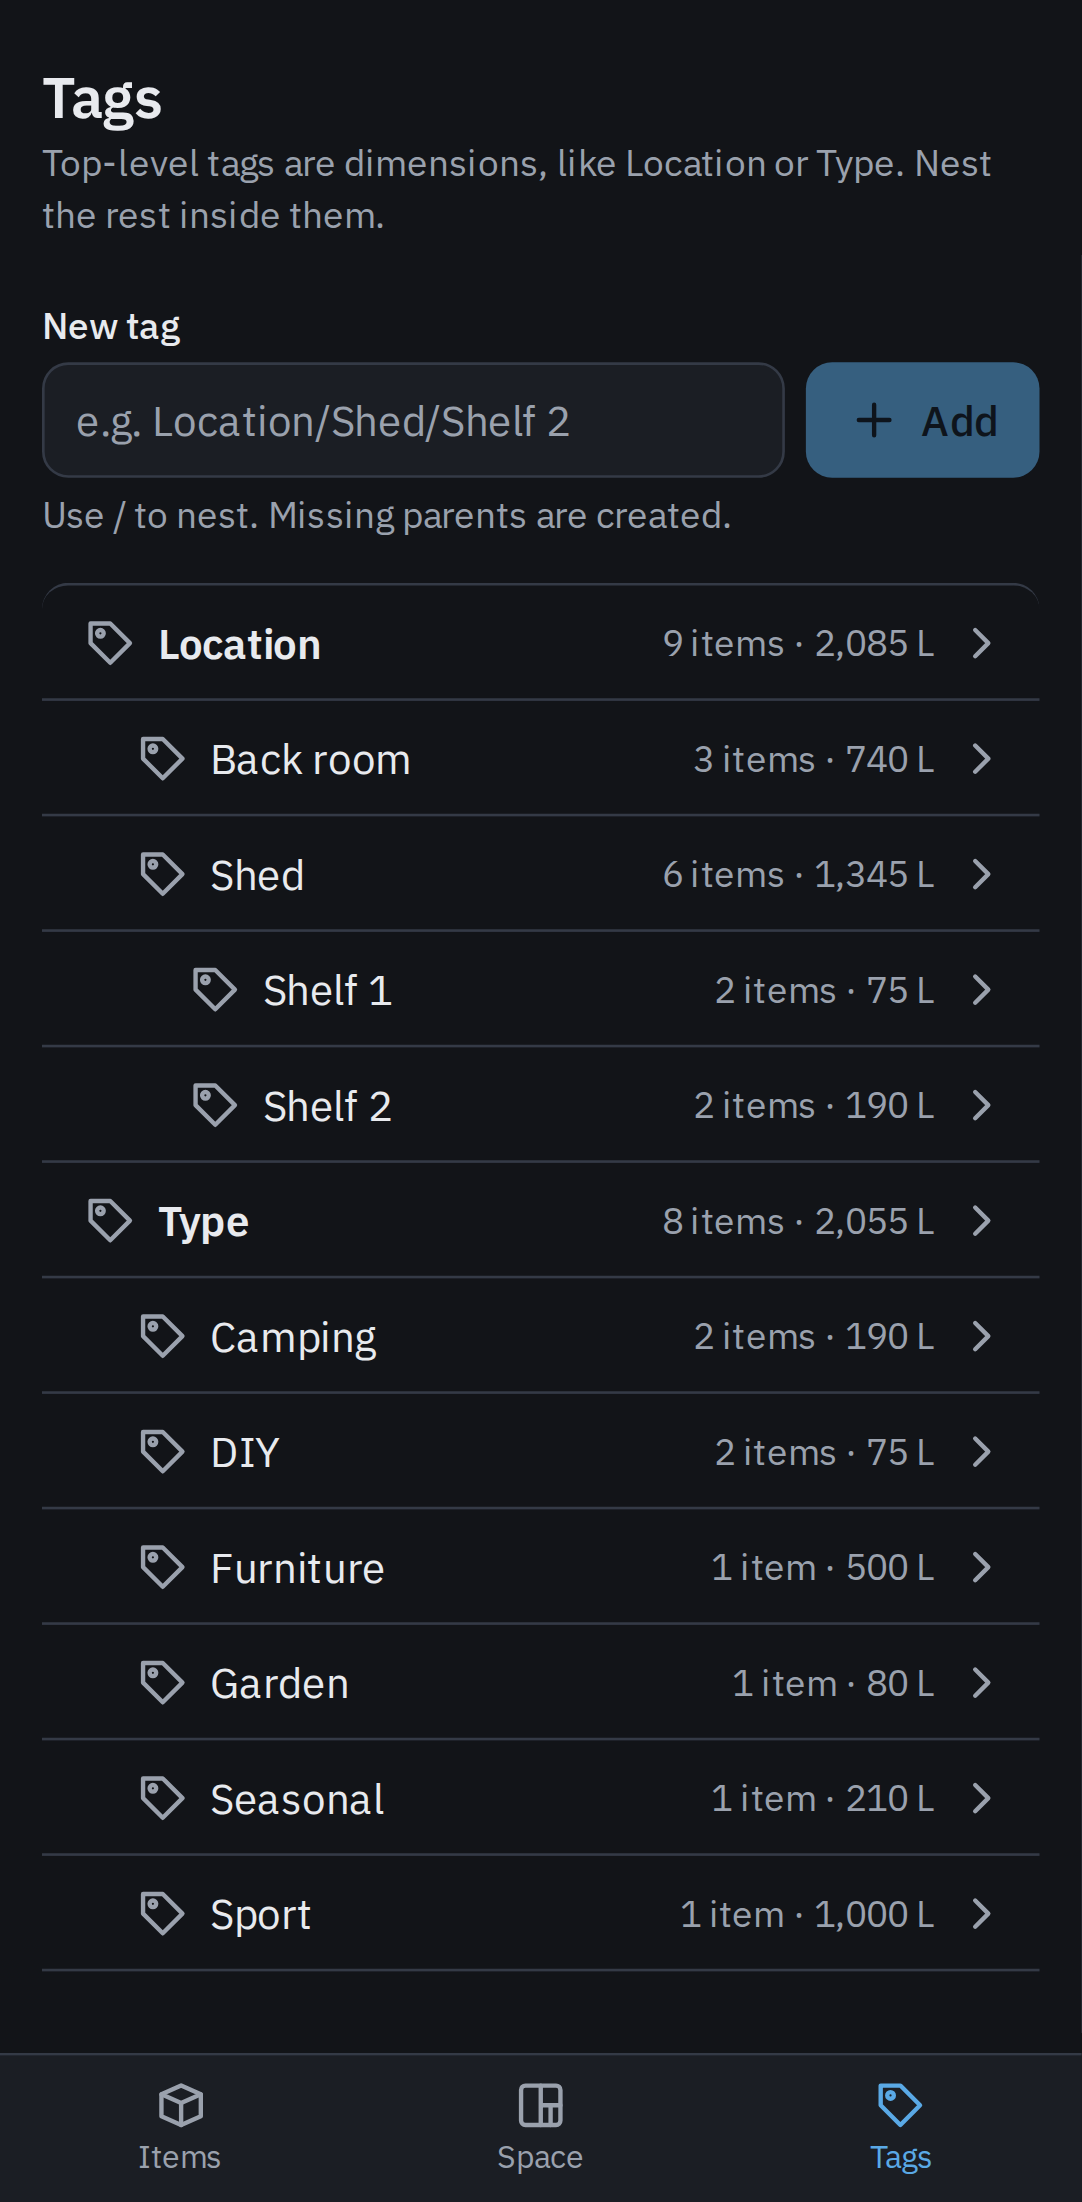
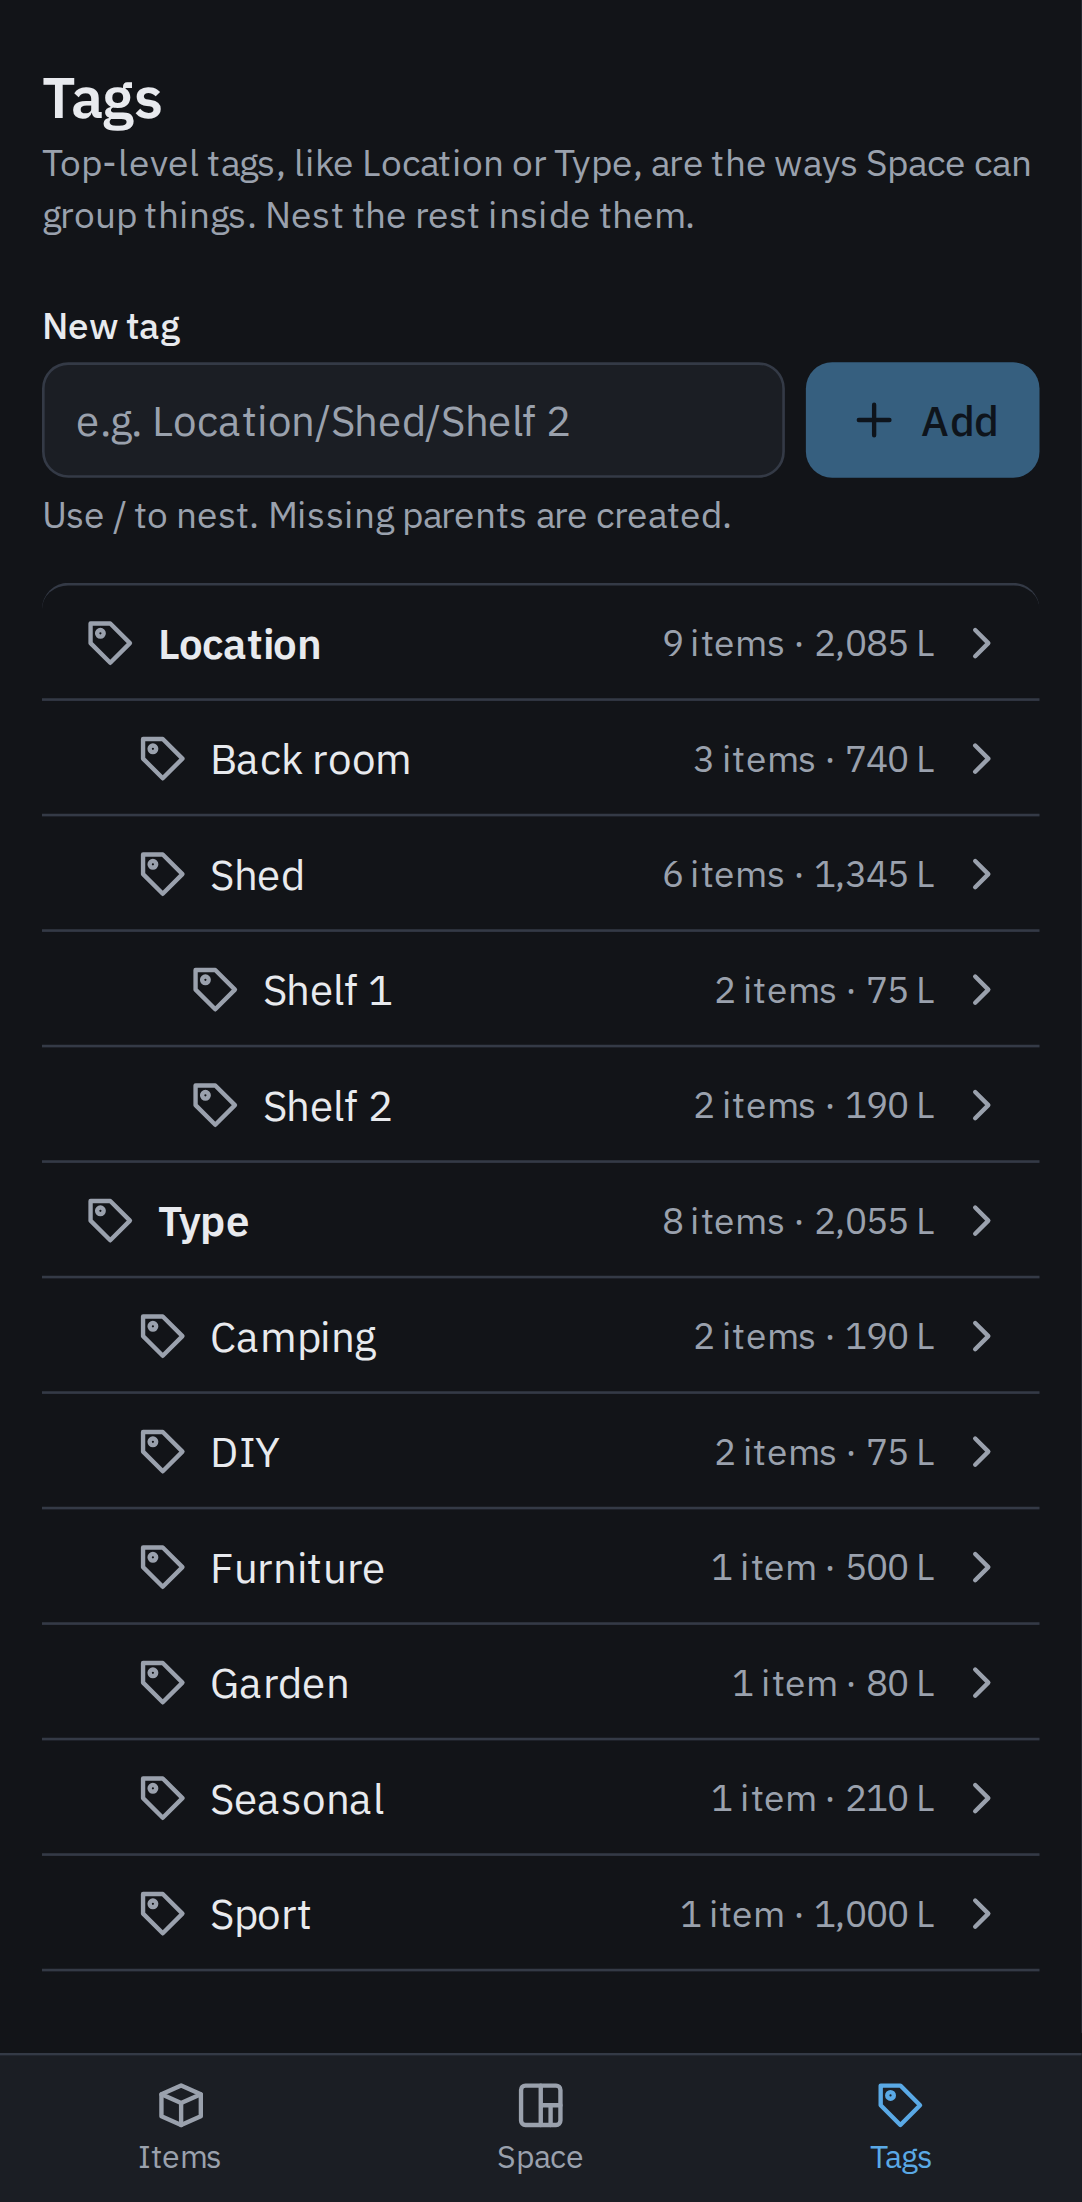
Retake the Space and Tags screenshots for the new wording

Changed region(s): [[0.183, 0.0618, 0.9455, 0.1235], [0.0305, 0.0926, 0.1525, 0.1235]]

diff --git a/README.md b/README.md
@@ -14,7 +14,7 @@ A self-hosted app for cataloguing what's in your shed or back room, so you can s
     <td><img src="docs/screenshots/space.png" width="200" alt="Treemap of space by Location: Shed 62% and Back room 34%, with the bikes and the old couch filling most of each, and a small Untagged block"></td>
     <td><img src="docs/screenshots/items.png" width="200" alt="Item list ranked by total space, with tag chips on each item"></td>
     <td><img src="docs/screenshots/add.png" width="200" alt="Add item form with size presets, quantity and tag suggestions"></td>
-    <td><img src="docs/screenshots/tags.png" width="200" alt="Tag tree with Location and Type dimensions and item counts"></td>
+    <td><img src="docs/screenshots/tags.png" width="200" alt="Tag tree with Location and Type top-level tags and item counts"></td>
   </tr>
   <tr><td>Space</td><td>Items</td><td>Add item</td><td>Tags</td></tr>
 </table>
